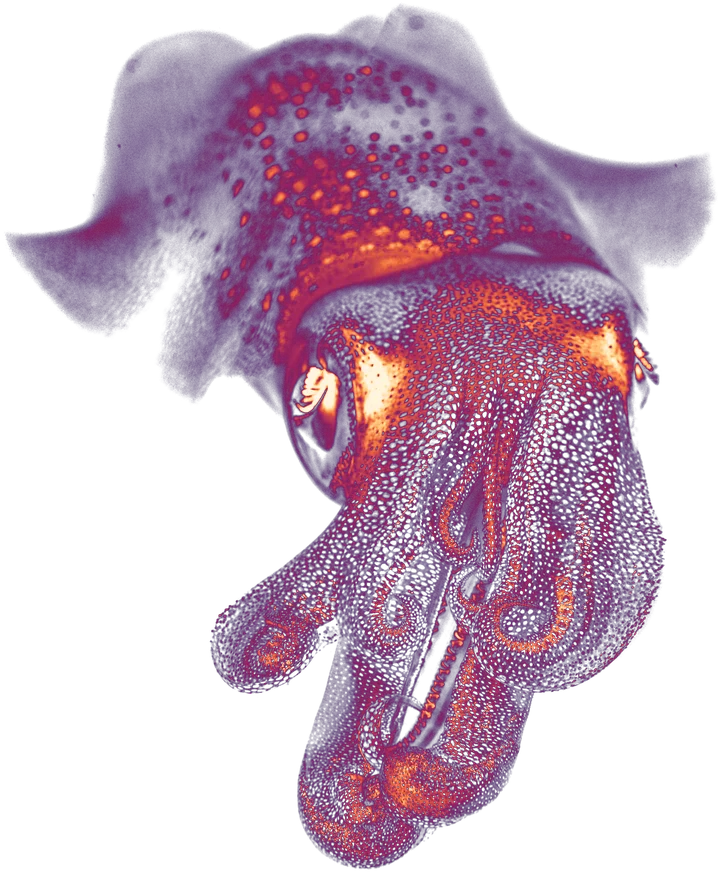
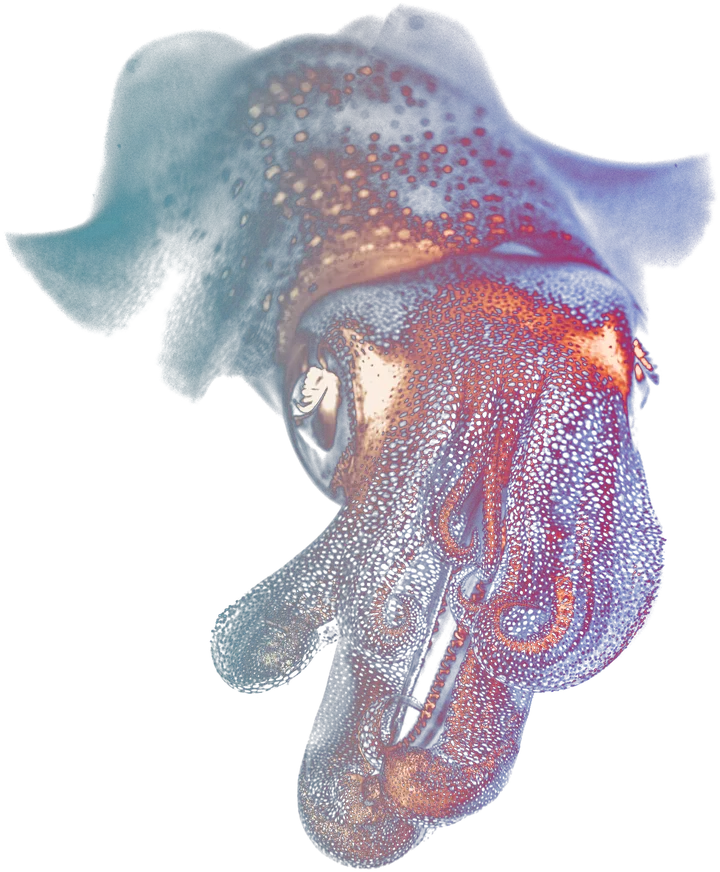
Full negatives for the zoanthid and soft coral headers, colour sweep on the coral and squid
- Who we are: the zoanthids as a full negative.
- Work with us: the soft coral as a full negative, recoloured with a
  left-to-right colour sweep (teal, sand, magenta and blue), after the
  Colossal 'Gratitude is in our genes' page.
- The squid in the depth graphic gets the same sweep.
A dark wash rises from the lower left of both headers so the white title
stays readable.

Claude-Session: https://claude.ai/code/session_01HPvjW6KZMfatoVEK835rkc

diff --git a/README.md b/README.md
@@ -85,7 +85,7 @@ All photos live in `public/images/`. To swap one, overwrite the file and keep th
 
 Swap any of these for real team photos whenever you have them.
 
-**Page headers.** Every page in the top menu opens with a full-width photo band. The photos live in `public/images/pages/` and are named after the page: `who-we-are.jpg`, `the-problem.jpg`, `news.jpg`, `work-with-us.jpg`, `positions.jpg`, `donate.jpg`. Each is 2400 × 1350 and is a nature photo with an edit: Who we are (zoanthids, negative on a diagonal), The Problem (sunbeams, false color), News (porcelain crab, a negative lens around it), Work with us (soft coral, solarized so the bright tones flip), Positions (pygmy seahorse, negative glitch slices) and Donate (anemone, false color). The script that makes the inverted ones keeps the original's dark lower-left so the white title stays readable. The title sits over the bottom-left of the photo, so keep that area calm and darkish. To change which part of a photo stays visible on phones, edit `imagePosition` where the page uses `<PageHeader>` (for example `imagePosition="60% 50%"` keeps a bit right of center). Delete a page's photo and that page goes back to a plain title.
+**Page headers.** Every page in the top menu opens with a full-width photo band. The photos live in `public/images/pages/` and are named after the page: `who-we-are.jpg`, `the-problem.jpg`, `news.jpg`, `work-with-us.jpg`, `positions.jpg`, `donate.jpg`. Each is 2400 × 1350 and is a nature photo with an edit: Who we are (zoanthids, a full negative), The Problem (sunbeams, false color), News (porcelain crab, a negative lens around it), Work with us (soft coral, a full negative recoloured with a left-to-right colour sweep: teal, then sand, then magenta and blue, like Colossal's "Gratitude is in our genes" page), Positions (pygmy seahorse, negative glitch slices) and Donate (anemone, false color). The script that makes the inverted ones keeps the original's dark lower-left so the white title stays readable. The title sits over the bottom-left of the photo, so keep that area calm and darkish. To change which part of a photo stays visible on phones, edit `imagePosition` where the page uses `<PageHeader>` (for example `imagePosition="60% 50%"` keeps a bit right of center). Delete a page's photo and that page goes back to a plain title.
 
 **Photo rule (natural vs edited).** Like Colossal: photos of people, lab work and machines stay natural, with no filter. False-color edits (gradient maps, halftone dots, shifted slices) are only for nature and animals and for graphic "stickers". So the Home cards and the inset photos are natural (except the fish eye on Home), while every page header and every big photo band is a nature photo with a false-color edit. A replacement for an edited photo needs the same treatment (ask for it, or use a gradient map in any photo app).
 
@@ -103,7 +103,7 @@ Swap any of these for real team photos whenever you have them.
 - `depthMarks` (dashed lines at 40 m and 200 m), `depthRanges` (the bars beside the ruler), `pressureNote` and `talosaurNote`.
 - Move anything up or down by changing its `depth`. Leave about 50 m between notes so they don't overlap on phones.
 - Make the whole drawing taller or shorter: change `--m` (pixels per meter) at the top of the component's styles.
-- The animals are cut-outs of Ocean Image Bank photos in `public/images/depth/` (transparent backgrounds; the squid and jellyfish have false-color edits). Replace a file with one of the same name. Each one's depth is in the `animals` list at the top of the component.
+- The animals are cut-outs of Ocean Image Bank photos in `public/images/depth/` (transparent backgrounds; the jellyfish has a false-color edit and the squid the same teal-to-magenta colour sweep as the Work with us header). Replace a file with one of the same name. Each one's depth is in the `animals` list at the top of the component.
 - The ship is a simple drawing inside the component (the `<svg class="ship">`), not a photo.
 
 **Scroll-under effect.** Like Colossal, some pictures move at a slightly different speed from the page, and the next section slides over them. Add `data-parallax="0.4"` to a picture at the very top of a page (it lags behind the scroll), or `data-drift="100"` to anything else (it starts 100 px low and rises into place as you scroll past). Used on the Home video, every page header photo, the Home card grids and The Problem's big numbers. This only works because every `.band` has `position: relative` and its own background, so the next band paints on top. It's switched off for visitors with "reduce motion" turned on. The code is at the bottom of `src/layouts/BaseLayout.astro`.
